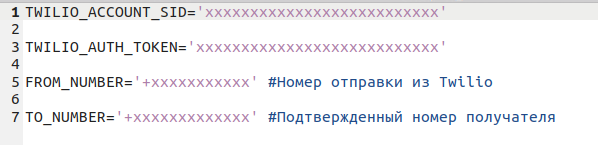
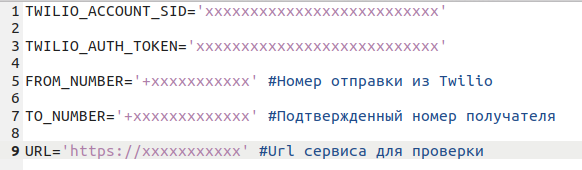
changed screenshot and main body

Changed region(s): [[0.0, 0.0, 1.0, 0.7448], [0.0, 0.7448, 0.9278, 0.9379]]

diff --git a/request-check.py b/request-check.py
@@ -12,6 +12,7 @@ TWILIO_ACCOUNT_SID = os.getenv('TWILIO_ACCOUNT_SID')
 TWILIO_AUTH_TOKEN = os.getenv('TWILIO_AUTH_TOKEN')
 FROM_NUM = os.getenv('FROM_NUMBER')
 TO_NUM = os.getenv('TO_NUMBER')
+URL = os.getenv('URL')
 TIME_DELAY = 60
 
 client = Client(TWILIO_ACCOUNT_SID, TWILIO_AUTH_TOKEN)
@@ -32,7 +33,7 @@ def send_sms(message):
 
 while True:
     try:
-        answer = requests.get('https://httpstat.us/404').raise_for_status()
+        answer = requests.get(URL).raise_for_status()
         logging.info(answer.status_code)
         time.sleep(TIME_DELAY)
     except:
